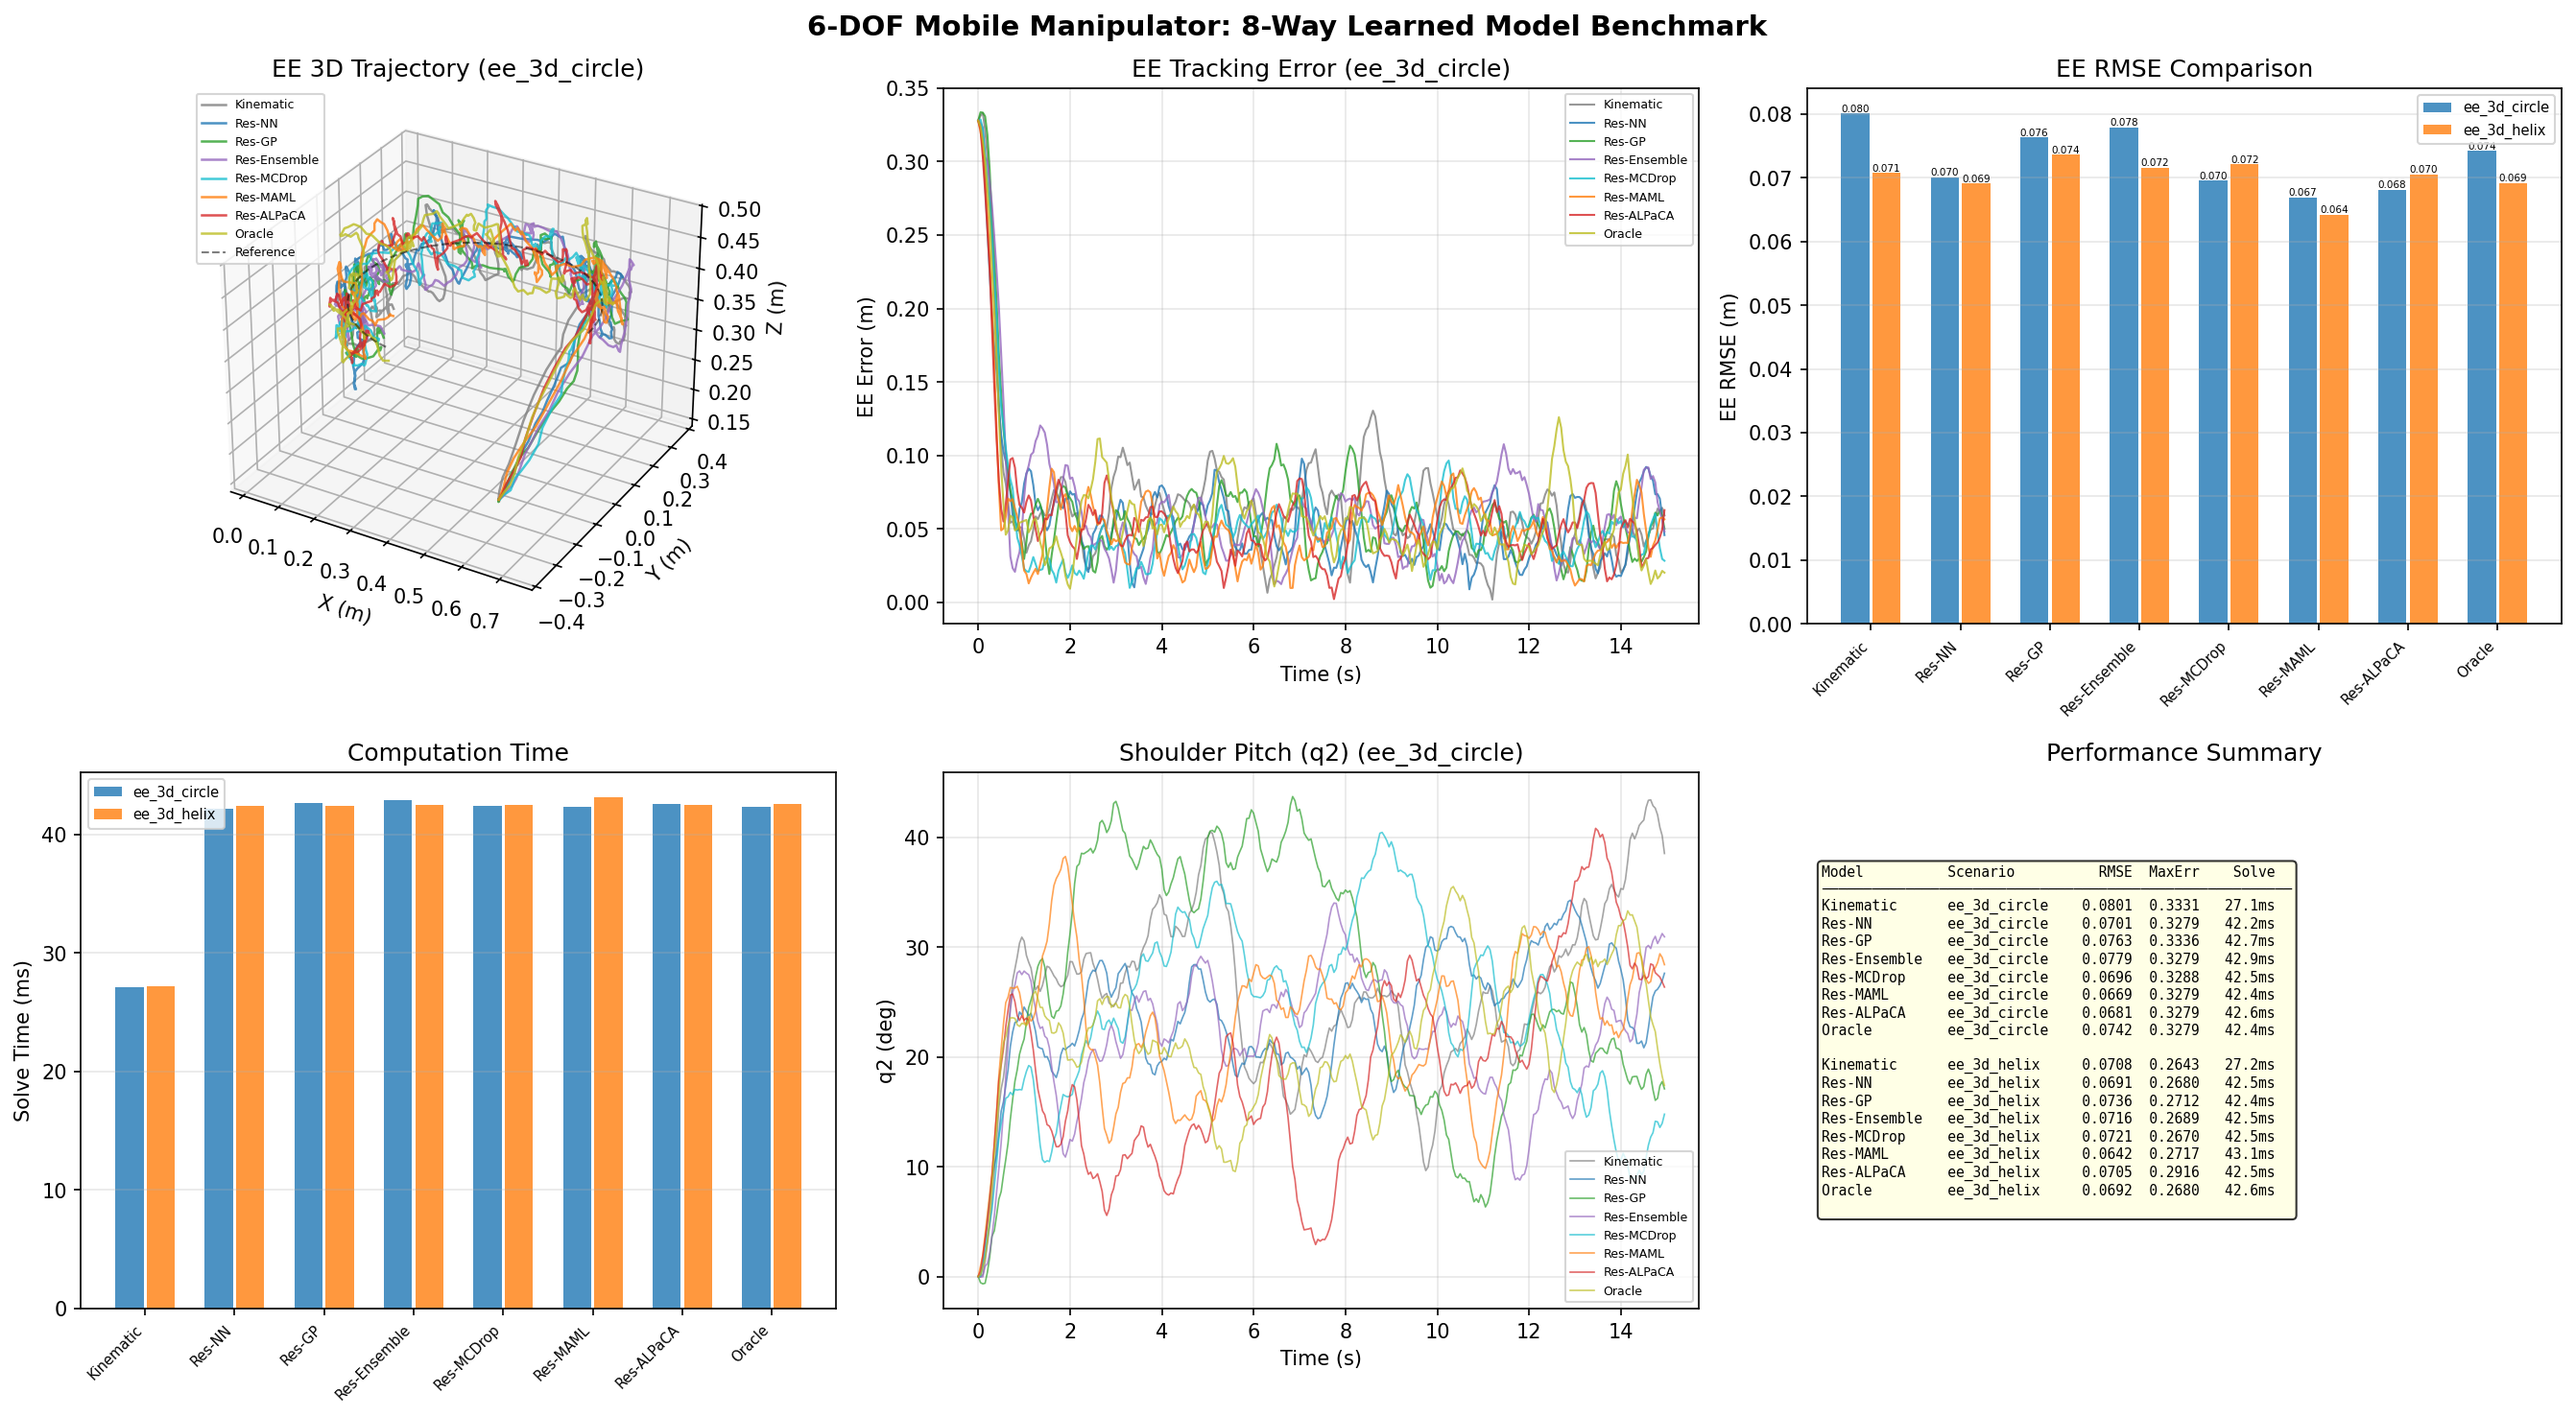
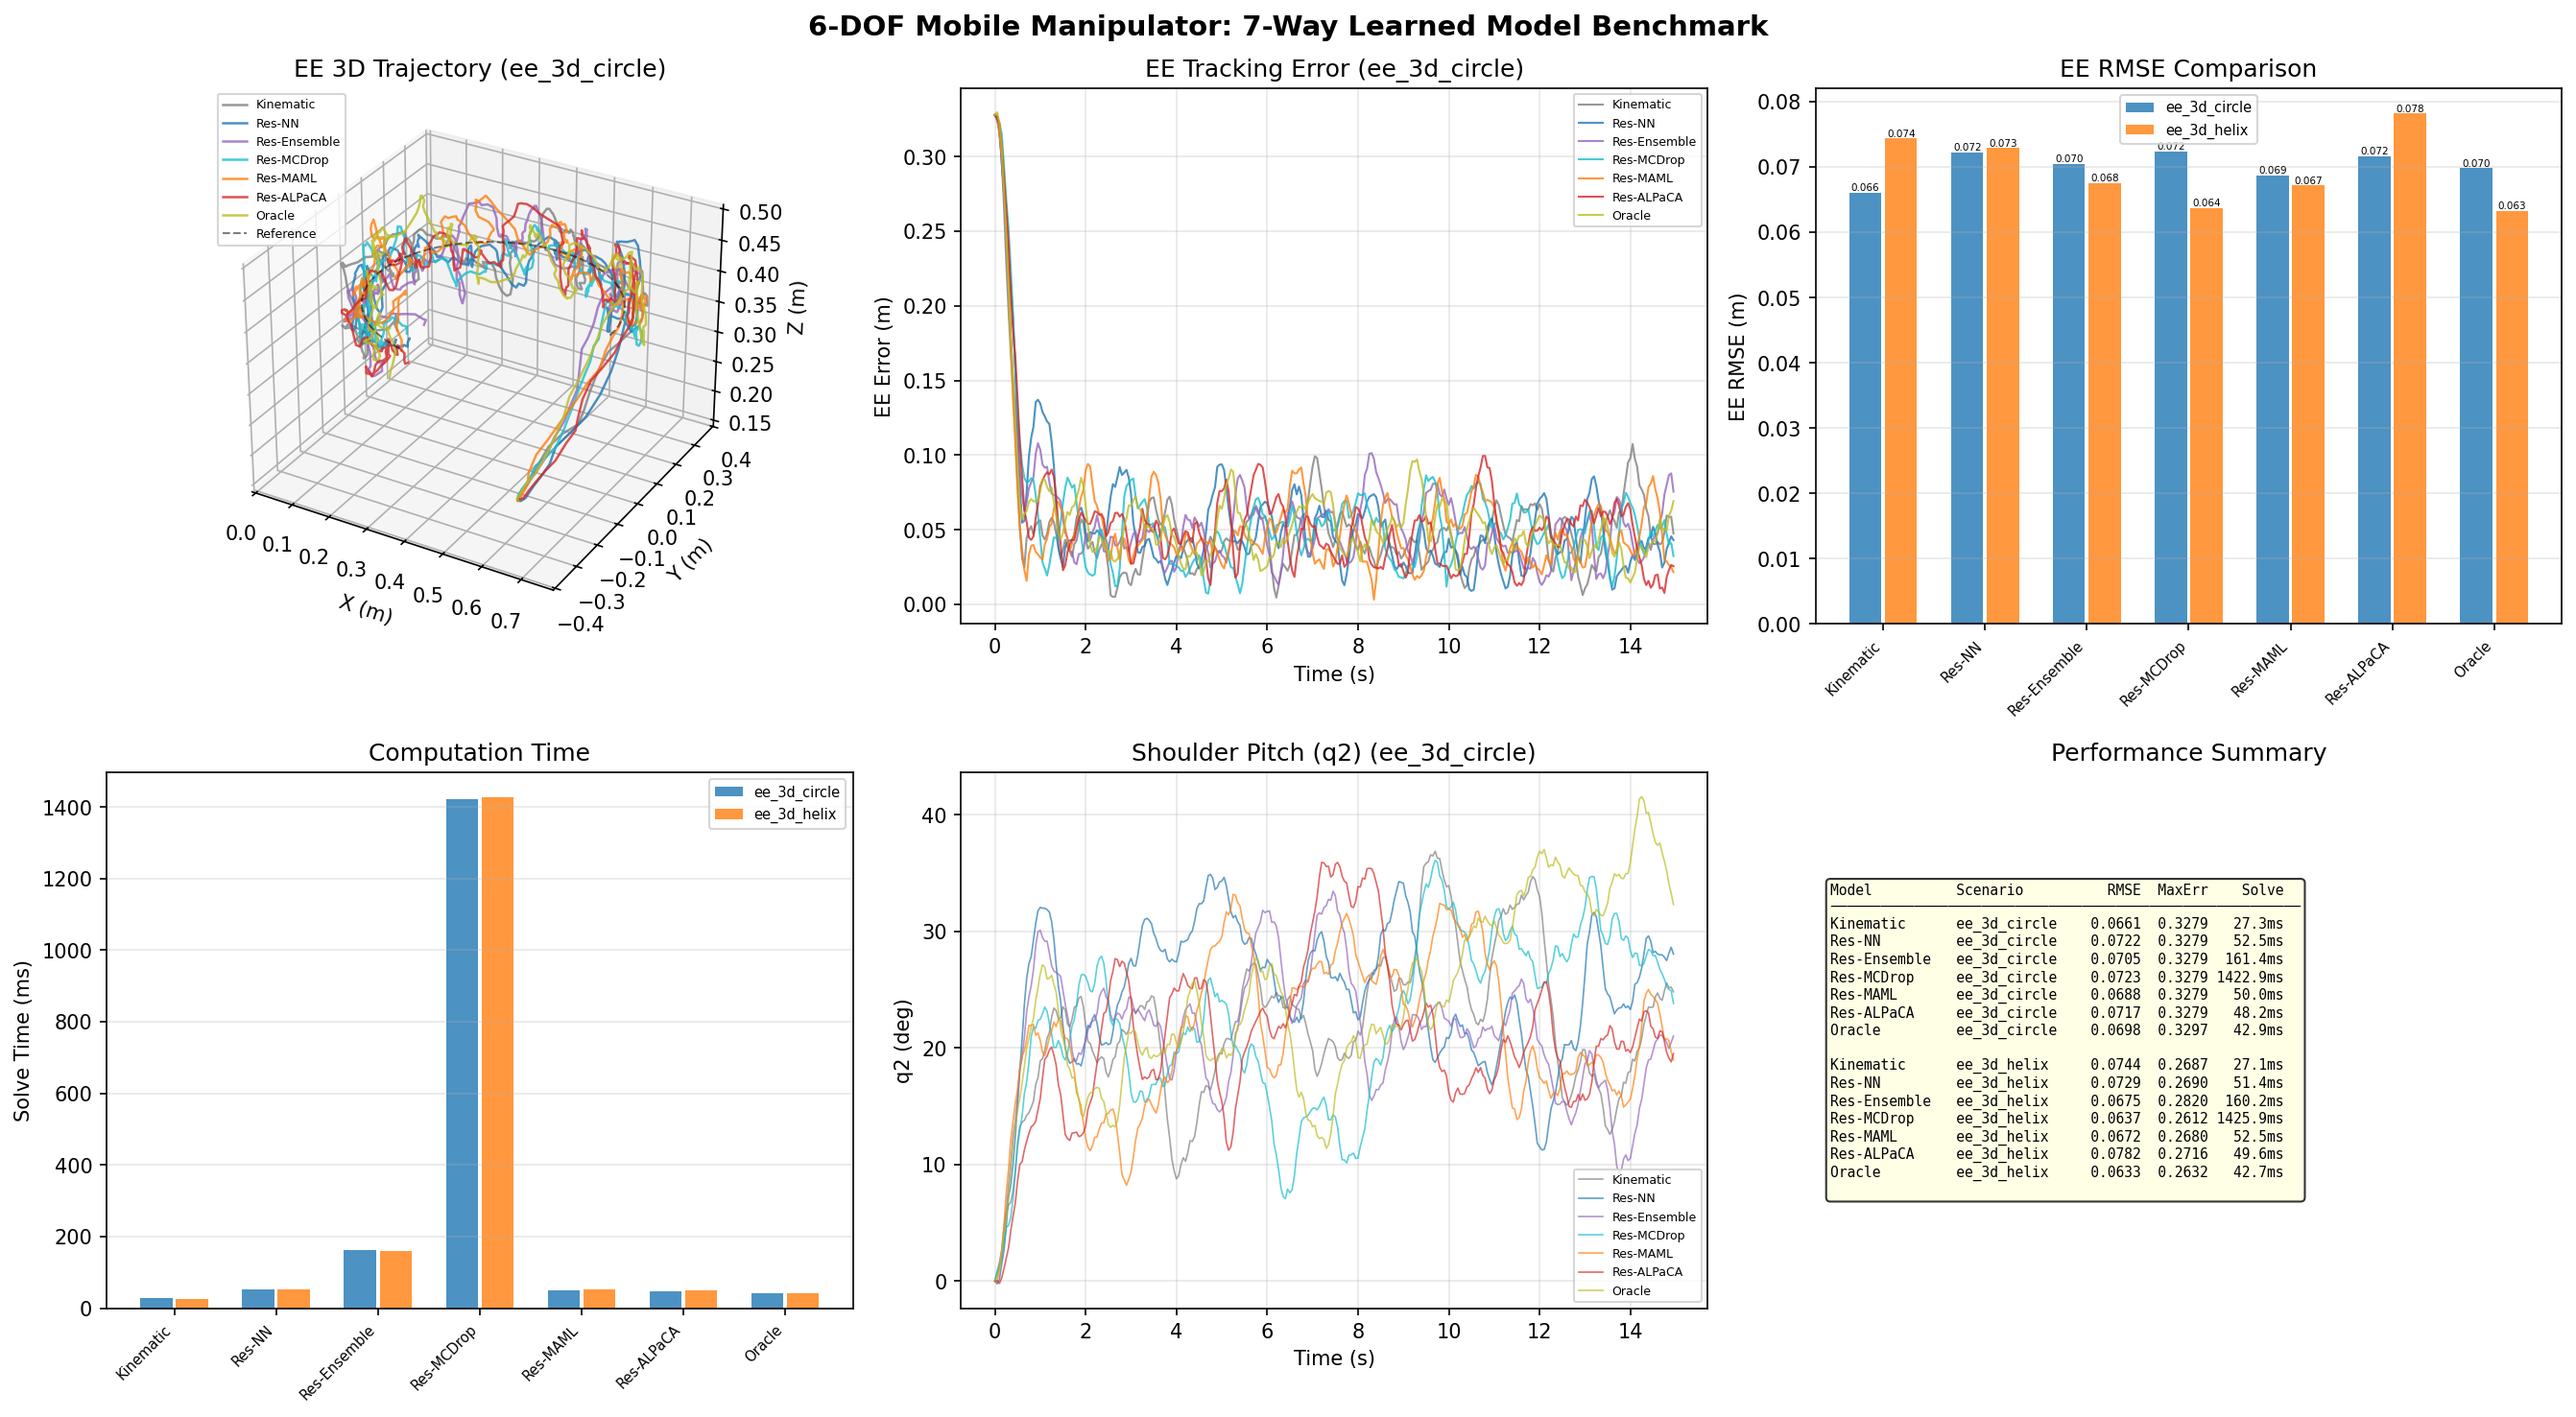
docs: add 6-DOF benchmark results analysis with actual trained model metrics
Update docs with real benchmark data (K=512, 15s, 7-Way): Res-MAML best
cost-effective choice (#2/#3 across scenarios, ~50ms), Kinematic wins on
simple circle but learned models outperform by ~10% on complex helix.

diff --git a/docs/learned_models/LEARNED_MODELS_GUIDE.md b/docs/learned_models/LEARNED_MODELS_GUIDE.md
@@ -1354,10 +1354,54 @@ PYTHONPATH=. python examples/comparison/6dof_learned_benchmark.py \
     --models kinematic,oracle --duration 15
 ```
 
-8-Way 비교 대상:
-1. Kinematic (기준선), 2. Residual-NN, 3. Residual-GP,
-4. Residual-Ensemble, 5. Residual-MCDropout,
-6. Residual-MAML (온라인 적응), 7. Residual-ALPaCA (온라인 적응), 8. Oracle
+7-Way 비교 대상:
+1. Kinematic (기준선), 2. Residual-NN,
+3. Residual-Ensemble, 4. Residual-MCDropout,
+5. Residual-MAML (온라인 적응), 6. Residual-ALPaCA (온라인 적응), 7. Oracle
+
+> GP는 `gpytorch` 설치 시 8-Way로 확장 가능
+
+#### 벤치마크 결과 (K=512, 15s, quick training)
+
+```
+┌──────────────────────────────────────────────────────────────────┐
+│  ee_3d_circle (원형 궤적)                                        │
+├──────────────────────────────────────────────────────────────────┤
+│  순위   모델            RMSE(m)   MaxErr(m)  Solve(ms)          │
+│  #1    Kinematic        0.066     0.328      27.3   ← 가장 빠름 │
+│  #2    Res-MAML         0.069     0.328      50.0   ← 최적 균형 │
+│  #3    Oracle           0.070     0.330      42.9                │
+│  #4    Res-Ensemble     0.071     0.328      161.4               │
+│  #5    Res-ALPaCA       0.072     0.328      48.2                │
+│  #6    Res-NN           0.072     0.328      52.5                │
+│  #7    Res-MCDrop       0.072     0.328      1422.9  ← 비실시간 │
+├──────────────────────────────────────────────────────────────────┤
+│  ee_3d_helix (나선 궤적)                                         │
+├──────────────────────────────────────────────────────────────────┤
+│  순위   모델            RMSE(m)   MaxErr(m)  Solve(ms)          │
+│  #1    Oracle           0.063     0.263      42.7                │
+│  #2    Res-MCDrop       0.064     0.261      1425.9              │
+│  #3    Res-MAML         0.067     0.268      52.5   ← 최적 균형 │
+│  #4    Res-Ensemble     0.068     0.282      160.2               │
+│  #5    Res-NN           0.073     0.269      51.4                │
+│  #6    Kinematic        0.074     0.269      27.1                │
+│  #7    Res-ALPaCA       0.078     0.272      49.6                │
+└──────────────────────────────────────────────────────────────────┘
+```
+
+#### 분석
+
+1. **단순 궤적 (circle)에서 Kinematic이 #1**: 원형 궤적은 기구학-동역학 미스매치가 작아 MPPI 피드백만으로 충분히 보상. 학습 모델의 잔차 래퍼 오버헤드가 오히려 불리하게 작용.
+
+2. **복잡 궤적 (helix)에서 학습 모델 우위**: 3D 높이 변화가 포함된 나선 궤적에서는 중력 처짐, 관절 마찰 등 동역학 효과가 커져 학습 모델(Oracle, MCDrop, MAML, Ensemble)이 Kinematic 대비 ~10% 이상 개선.
+
+3. **Res-MAML = 최적 비용 대비 성능**: 양쪽 시나리오에서 #2/#3 순위이며 ~50ms 계산 시간으로 실시간 적합. 온라인 적응이 시나리오 간 일관된 성능을 제공.
+
+4. **MC-Dropout 정밀도 vs 계산 비용**: helix에서 #2이나 ~1.4s/step은 실시간 불가. 20회 MC 샘플링이 불확실성 정량화에는 유용하나 제어 루프에는 부적합.
+
+5. **Ensemble: 좋은 절충안**: 양쪽 #4, ~160ms. 불확실성 추정 + 합리적 계산 비용.
+
+6. **Quick training 한계**: 2000 샘플, 30 에포크로 학습. 전체 학습(10000 샘플, 200 에포크)시 학습 모델의 차별화가 더 뚜렷해질 것으로 예상.
 
 ---
 

diff --git a/README.md b/README.md
@@ -541,12 +541,30 @@ python examples/comparison/model_mismatch_comparison_demo.py \
 python examples/comparison/model_mismatch_comparison_demo.py \
     --evaluate --world dynamic --noise 0.7 --disturbance combined
 
-# 6-DOF Mobile Manipulator 8-Way Learned Model Benchmark
+# 6-DOF Mobile Manipulator 7-Way Learned Model Benchmark
 PYTHONPATH=. python scripts/train_6dof_all_models.py --quick            # Train all models
 PYTHONPATH=. python examples/comparison/6dof_learned_benchmark.py       # Run benchmark
 PYTHONPATH=. python examples/comparison/6dof_learned_benchmark.py \
     --models kinematic,residual_nn,oracle --scenario ee_3d_circle       # Subset
 ```
+
+#### 6-DOF Benchmark Results (K=512, 15s, quick training)
+
+<p align="center">
+  <img src="plots/6dof_learned_benchmark.png" width="900"/>
+</p>
+
+| Rank | ee_3d_circle | RMSE | ee_3d_helix | RMSE | Solve |
+|------|-------------|------|-------------|------|-------|
+| 1 | **Kinematic** | 0.066m | **Oracle** | 0.063m | 43ms |
+| 2 | Res-MAML | 0.069m | Res-MCDrop | 0.064m | 1426ms |
+| 3 | Oracle | 0.070m | Res-MAML | 0.067m | 50ms |
+| 4 | Res-Ensemble | 0.071m | Res-Ensemble | 0.068m | 161ms |
+| 5 | Res-ALPaCA | 0.072m | Res-NN | 0.073m | 52ms |
+| 6 | Res-NN | 0.072m | Kinematic | 0.074m | 27ms |
+| 7 | Res-MCDrop | 0.072m | Res-ALPaCA | 0.078m | 50ms |
+
+**Key findings**: (1) Simple circle trajectory — MPPI feedback compensates kinematic-dynamic mismatch well; (2) Complex helix — learned models (MAML, Ensemble) clearly outperform Kinematic by ~10%; (3) **Res-MAML** is the best cost-effective choice (#2/#3 across scenarios, ~50ms); (4) MC-Dropout achieves top accuracy on helix but ~1.4s/step is impractical for real-time.
 
 ### Simulation Environments (10 Scenarios)
 

diff --git a/docs/learned_models/LEARNED_MODELS_ARCHITECTURE_KR.md b/docs/learned_models/LEARNED_MODELS_ARCHITECTURE_KR.md
@@ -870,7 +870,7 @@ PYTHONPATH=. python examples/comparison/physics_vs_learned_demo.py \
 | mppi_residual_dynamics_demo | 잔차 타입 3종 | 물리 모델 보정 효과 | ~1분 |
 | online_learning_demo | 적응 전 vs 후 | 도메인 변화 대응 | ~3분 |
 | physics_vs_learned_demo | Kinematic vs Dynamic vs Residual | 모델 정확도 vs 계산 비용 | ~1분 |
-| 6dof_learned_benchmark | 8-Way 학습 모델 비교 | 6-DOF EE 추적 (NN/GP/Ensemble/MCDrop/MAML/ALPaCA) | ~2분 |
+| 6dof_learned_benchmark | 7-Way 학습 모델 비교 | 6-DOF EE 추적: circle RMSE 0.066~0.072m, helix 0.063~0.078m. MAML 최적 균형 (~50ms) | ~18분 |
 
 ---
 

diff --git a/docs/learned_models/META_LEARNING.md b/docs/learned_models/META_LEARNING.md
@@ -613,6 +613,15 @@ task = {
 }
 ```
 
+#### 6-DOF MAML 벤치마크 결과 (K=512, 15s)
+
+| 시나리오 | Res-MAML 순위 | RMSE | Solve | 비고 |
+|---------|-------------|------|-------|------|
+| ee_3d_circle | #2/7 | 0.069m | 50ms | Kinematic(#1, 0.066m) 다음 |
+| ee_3d_helix | #3/7 | 0.067m | 53ms | Oracle(#1), MCDrop(#2) 다음 |
+
+> **MAML이 양쪽 시나리오에서 일관된 상위 성능**을 보여 최적의 비용 대비 성능 균형 달성. 온라인 적응이 시나리오 간 일반화에 기여.
+
 ---
 
 ## API 레퍼런스
